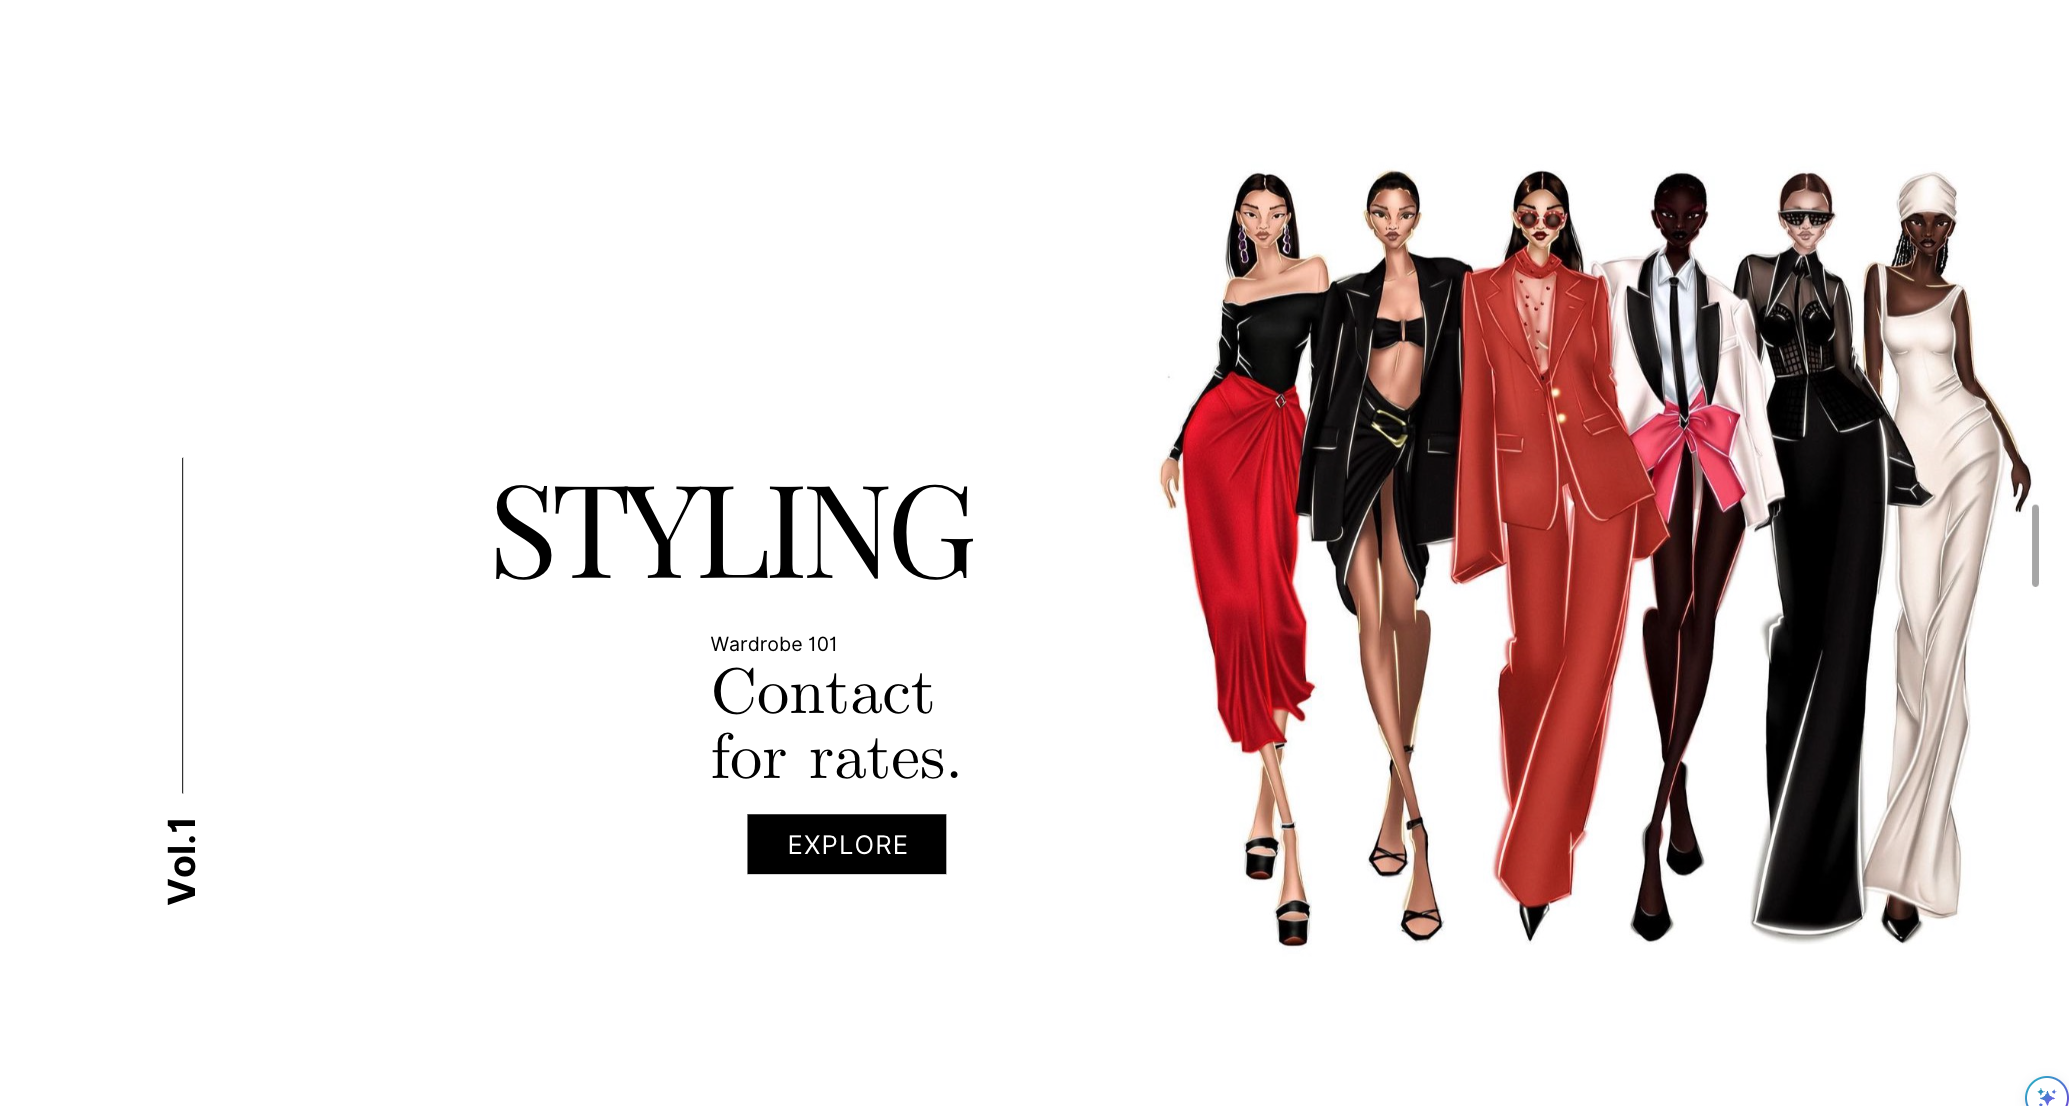
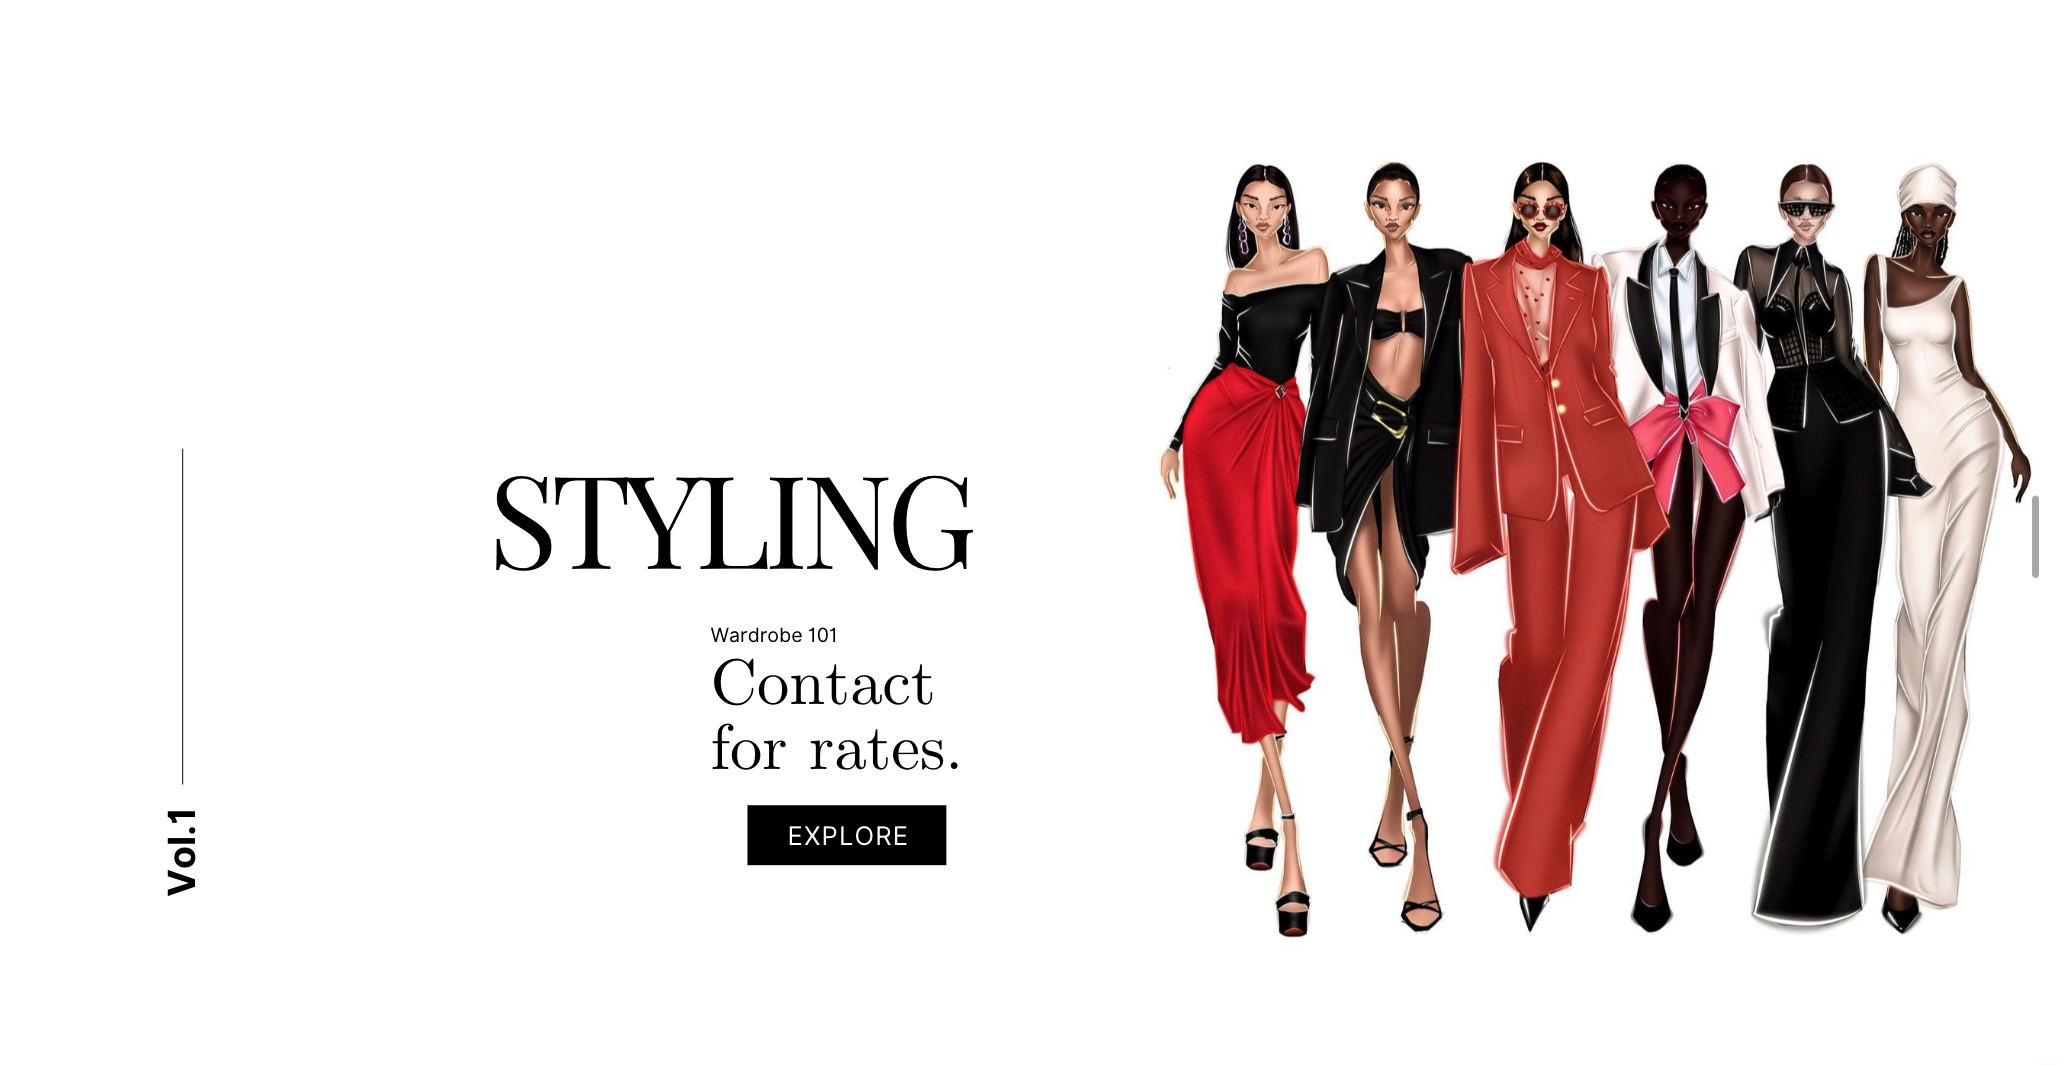
tagline div mock up

diff --git a/src/components/Home.js b/src/components/Home.js
@@ -1,5 +1,4 @@
-// import './nav.css'
-import ModalImage from 'react-modal-image'
+// import ModalImage from 'react-modal-image'
 
 
 
@@ -13,17 +12,21 @@ const Home = () => {
 
   	</div>
 <center>
-  <div>
-			<img src={require("../img/styling.png")} alt={"Ariana Weisner"} style={{width: '85%'}}/>
+<div>
+			<img src={require("../img/tagline.png")} alt={"Ariana Weisner"} style={{width: '100%'}}/>
   </div>
   <div>
-      <img src={require("../img/ps.png")} alt={"Ariana Weisner"} style={{width: '85%'}}/>
+			<img src={require("../img/styling.png")} alt={"Ariana Weisner"} style={{width: '90%'}}/>
   </div>
+  <hr />
+  <div>
+      <img src={require("../img/ps.png")} alt={"Ariana Weisner"} style={{width: '90%'}}/>
+  </div>
+    <hr />
+  <div>
+  <img src={require("../img/closet.png")} alt={"Ariana Weisner"} style={{width: '90%'}}/>
 
-  <div>
-  <img src={require("../img/closet.png")} alt={"Ariana Weisner"} style={{width: '85%'}}/>
-
-  </div>
+  </div> <hr />
 
 </center>
       <center>
